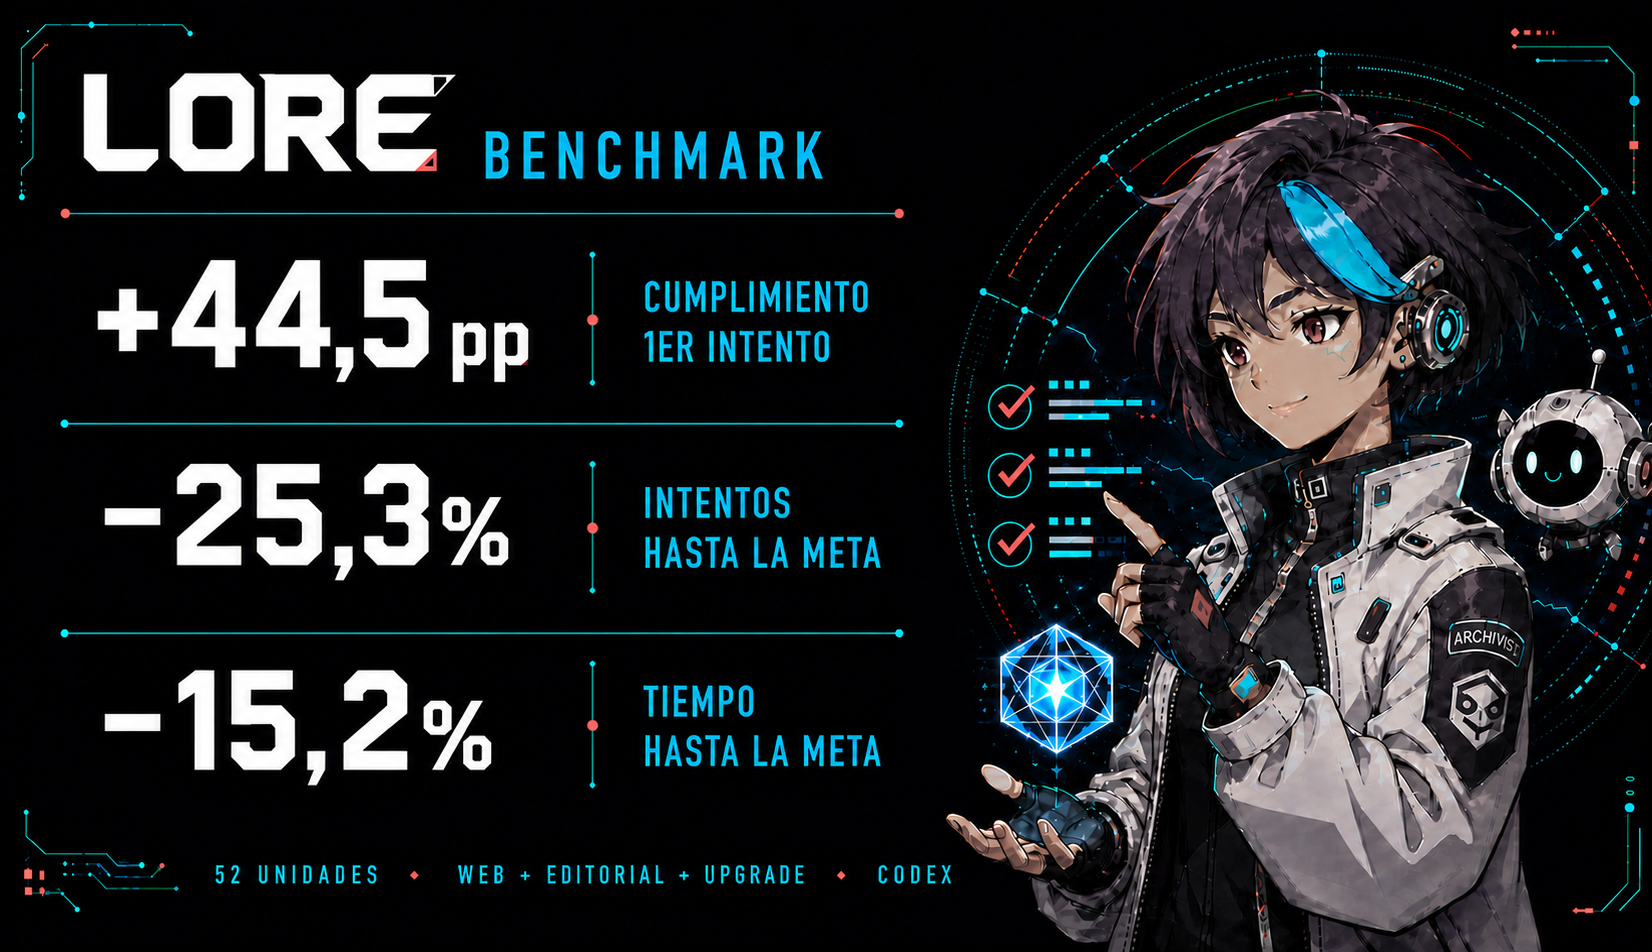
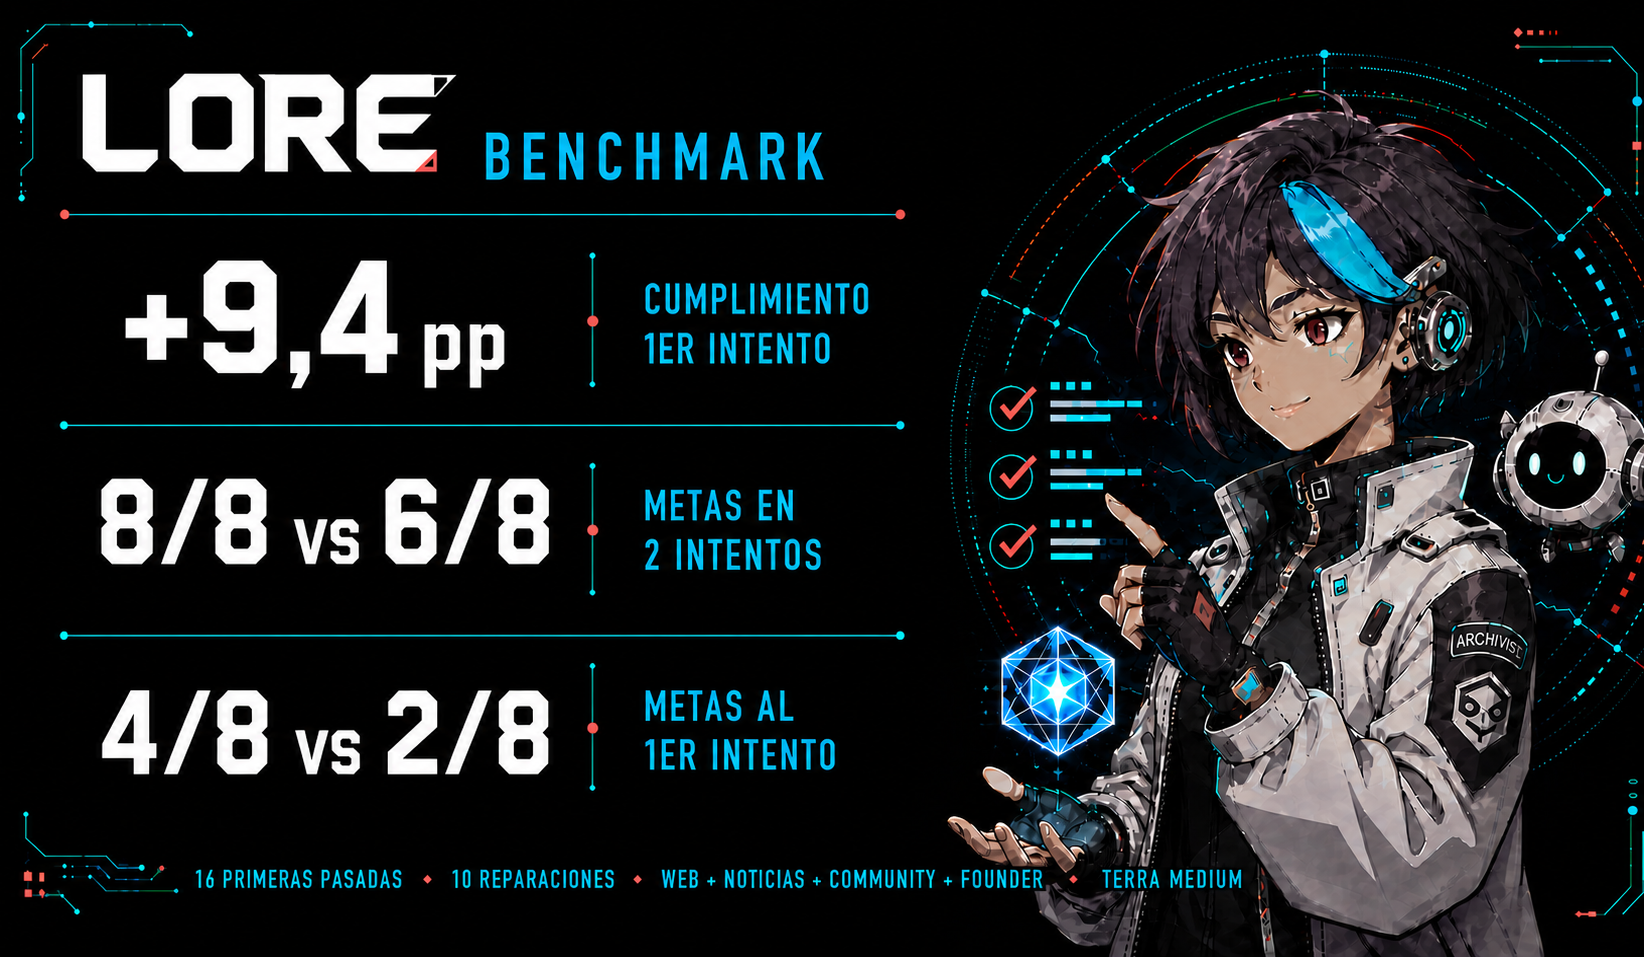
docs: publish Lore Plugin 2.3.2 effect benchmark

diff --git a/README.md b/README.md
@@ -14,7 +14,7 @@
 <h1 align="center">Lore</h1>
 
 <p align="center">
-  <a href="#installation"><img src="https://img.shields.io/badge/version-2.3.1-FF557A?style=for-the-badge&labelColor=0B0B12" alt="Version"></a>
+  <a href="#installation"><img src="https://img.shields.io/badge/version-2.3.2-FF557A?style=for-the-badge&labelColor=0B0B12" alt="Version"></a>
   <a href="#installation"><img src="https://img.shields.io/badge/AI_provider-neutral-22D9EE?style=for-the-badge&labelColor=0B0B12" alt="AI provider: neutral"></a>
   <a href="#the-eight-skills"><img src="https://img.shields.io/badge/writing--skills-validated-63C49B?style=for-the-badge&labelColor=0B0B12" alt="Validated against writing-skills"></a>
   <a href="./docs/SPEC_KIT_en.md"><img src="https://img.shields.io/badge/spec--kit-compatible-F94F79?style=for-the-badge&labelColor=0B0B12" alt="spec-kit compatible"></a>
@@ -47,7 +47,7 @@ It is a loop of re-explanations and mediocre solutions you had already rejected.
 
 ---
 
-<h3 align="center"><strong>+44.5 points of cross-domain first-pass compliance</strong>.</h3>
+<h3 align="center"><strong>+9.4 points of cross-domain first-pass compliance</strong>.</h3>
 
 <p align="center">
   <i>An SDD kit that gives you local fine-tuning for your own tasks — and the one doing the training is you.</i>
@@ -466,12 +466,12 @@ These rules were not designed in the abstract — one was bought. A README asked
 ## Benchmark
 
 <p align="center">
-  <img src="./assets/benchmark-impact.png" alt="Audited Lore benchmark: 44.5 points more cross-domain first-pass compliance, every measured goal reached and 15.2 percent less observed time" width="100%">
+  <img src="./assets/benchmark-impact.png" alt="Lore Plugin 2.3.2 benchmark: 9.4 points more cross-domain first-pass compliance, 8 of 8 goals reached within two attempts versus 6 of 8 without Lore, and twice as many goals reached on the first attempt" width="100%">
 </p>
 
-**Lore acts as stability infrastructure when the domain changes.** The result weighs Web work and Editorial work (community management, news writing) equally, so a good Web run cannot hide a bad Editorial one. Same model, prompt and tools on both arms — **`gpt-5.6-sol`, medium reasoning effort**. Lore reached every goal it was measured on. On Web alone (72 runs): Cold Codex **25/36 (69.4%)**, Codex + Lore **33/36 (91.7%)**.
+**Lore improved convergence across different kinds of practical work.** With the same task, factual dossier and execution model, the complete system — Lore Plugin 2.3.2 plus routed project Lore — reached **59/64 criteria (92.2%)** on the first pass, against **53/64 (82.8%)** without Lore. It doubled complete first-pass deliverables (**4/8 vs 2/8**) and brought **8/8 goals** within two attempts; the cold arm reached **6/8**. Lore runs took longer, so “faster to goal” here means fewer review cycles and no residual failures, not fewer wall-clock seconds.
 
-The harness, frozen tasks, graders, raw outputs and declared limits are in [`bench/`](./bench/). These are Codex results, not a universal model claim.
+The benchmark was designed and preregistered with **GPT-5.6 Sol medium**, then executed in isolated sessions with **GPT-5.6 Terra medium**: 16 first passes and 10 controlled repairs across landing direction, news writing, community management and founder CRM work. The [frozen instrument, blind adjudication, raw outputs and derived summary](./bench/effect-2.3.2/) are auditable. These are situated Codex results, not a universal model claim.
 
 ---
 
@@ -1026,12 +1026,12 @@ Estas reglas no son abstractas: una se pagó. A un README se le pidió encoger u
 ## El benchmark
 
 <p align="center">
-  <img src="./assets/benchmark-impact-es.png" alt="Benchmark auditado de Lore: 44,5 puntos más de cumplimiento multidominio al primer intento, todas las metas medidas alcanzadas y 15,2 por ciento menos tiempo observado" width="100%">
+  <img src="./assets/benchmark-impact-es.png" alt="Benchmark de Lore Plugin 2.3.2: 9,4 puntos más de cumplimiento multidominio al primer intento, 8 de 8 metas alcanzadas en dos intentos frente a 6 de 8 sin Lore, y el doble de metas alcanzadas al primer intento" width="100%">
 </p>
 
-**Lore funciona como infraestructura de estabilidad cuando cambia el dominio.** El resultado pesa igual el trabajo Web y el Editorial (community management, redacción de noticias), así una buena corrida Web no tapa una mala Editorial. Mismo modelo, prompt y herramientas en los dos brazos — **`gpt-5.6-sol`, esfuerzo de razonamiento medio**. Lore alcanzó todas las metas medidas. Solo en Web (72 corridas): Codex frío **25/36 (69,4%)**, Codex + Lore **33/36 (91,7%)**.
+**Lore mejoró la convergencia entre distintos tipos de trabajo práctico.** Con la misma tarea, dossier factual y modelo de ejecución, el sistema completo —Lore Plugin 2.3.2 más Lore de proyecto enrutado— alcanzó **59/64 criterios (92,2%)** al primer intento, frente a **53/64 (82,8%)** sin Lore. Duplicó los entregables completos de primera pasada (**4/8 frente a 2/8**) y llevó **8/8 metas** a objetivo en un máximo de dos intentos; el brazo frío alcanzó **6/8**. Las corridas con Lore tardaron más: «más rápido a la meta» significa menos ciclos de revisión y ninguna falla residual, no menos segundos de reloj.
 
-El harness, las tareas congeladas, los graders, las salidas crudas y las fronteras declaradas están en [`bench/`](./bench/). Son resultados de Codex, no una afirmación universal sobre modelos.
+El benchmark fue diseñado y prerregistrado con **GPT-5.6 Sol medium**, y después ejecutado en sesiones aisladas con **GPT-5.6 Terra medium**: 16 primeras pasadas y 10 reparaciones controladas sobre dirección de landing, redacción de noticias, community management y CRM founder. El [instrumento congelado, la adjudicación ciega, las salidas crudas y el resumen derivado](./bench/effect-2.3.2/) son auditables. Son resultados situados de Codex, no una afirmación universal sobre modelos.
 
 ---
 

diff --git a/bench/effect-2.3.2/README.md b/bench/effect-2.3.2/README.md
@@ -3,3 +3,18 @@
 Preregistered paired benchmark designed with GPT-5.6 Sol medium and executed with GPT-5.6 Terra medium. The frozen design lives in the private research bot; this directory carries the public, sanitized instrument and its auditable results.
 
 Do not run measured trials until `instrument.test.mjs`, the behavioral preflight and the human fixture review have passed and the instrument has its own commit.
+
+## Result
+
+| Measure | Cold | Lore Plugin 2.3.2 + routed Lore |
+|---|---:|---:|
+| First-pass criterion compliance | 53/64 (82.8%) | 59/64 (92.2%) |
+| Complete first-pass deliverables | 2/8 | 4/8 |
+| Goals reached within two attempts | 6/8 | 8/8 |
+| Still failing after one repair | 2/8 | 0/8 |
+
+Lore improved first-pass compliance by **9.4 percentage points**, doubled complete first-pass deliverables and removed residual failures after the single controlled repair. Its executions took longer: successful time-to-goal averaged 110.6 seconds for Lore and 64.0 seconds for the six successful cold runs; two cold runs are censored because they never reached goal. The convergence claim is therefore about review cycles, not wall-clock speed.
+
+The source of every number is [`results/summary.json`](./results/summary.json), generated by `node bench/effect-2.3.2/summary.mjs`. First-pass and repair adjudications were frozen before their randomized arm keys were opened; see [`results/blind-review.csv`](./results/blind-review.csv), [`results/repair-blind-review.csv`](./results/repair-blind-review.csv) and [`results/protocol-amendments.md`](./results/protocol-amendments.md).
+
+Scope: four synthetic, bounded tasks — landing direction, news writing, B2B community management and founder CRM — with two trials per arm. The result measures the complete treatment, not the plugin and project Lore separately, and does not generalize beyond this protocol.

diff --git a/bench/effect-2.3.2/results/audit.md b/bench/effect-2.3.2/results/audit.md
@@ -1,0 +1,15 @@
+# Closure audit
+
+Audited on 2026-08-27 before README publication.
+
+- Instrument boundary: `tasks.json` and all fixtures are unchanged from the frozen isolated-harness commit `d64f270`.
+- Primary sample: 16 valid attempt-1 runs, eight per arm; all use `gpt-5.6-terra` with medium reasoning.
+- Repairs: 10 valid attempt-2 runs, exactly one for each first-pass failure; no operational `n/a` result remains in the measured set.
+- Exposure: cold read Lore in 0/14 measured executions; treatment read Lore in 12/12.
+- Blind review: 128 first-pass and 80 repair criterion judgments were committed before their arm keys were opened. Packet SHA-256 values match both manifests and reveal keys.
+- Reproduction: rerunning `node bench/effect-2.3.2/summary.mjs` leaves `results/summary.json` unchanged.
+- Publication hygiene: the public benchmark contains no workspace-root or user-profile paths.
+
+Two protocol amendments are preserved rather than hidden: GPT-5.6 Sol became the binary blind reviewer and the secondary preference comparison was removed; repairs use fresh isolated sessions because primary sessions were ephemeral. See [`protocol-amendments.md`](./protocol-amendments.md).
+
+The comparison remains limited to this complete treatment, model, host, four synthetic tasks and two trials per arm. It does not isolate the plugin from the routed Lore or establish a universal effect.
